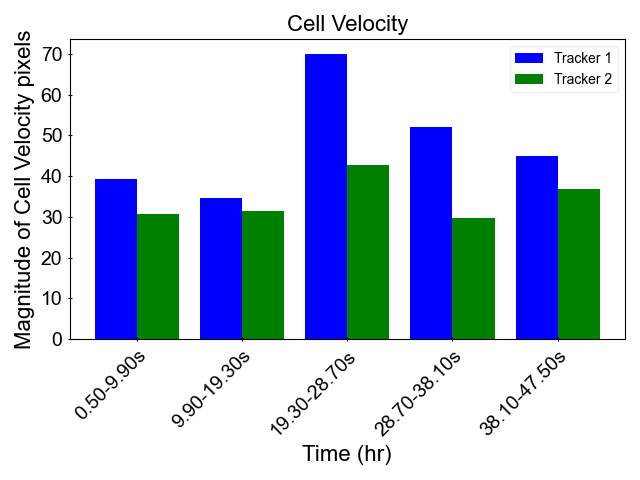
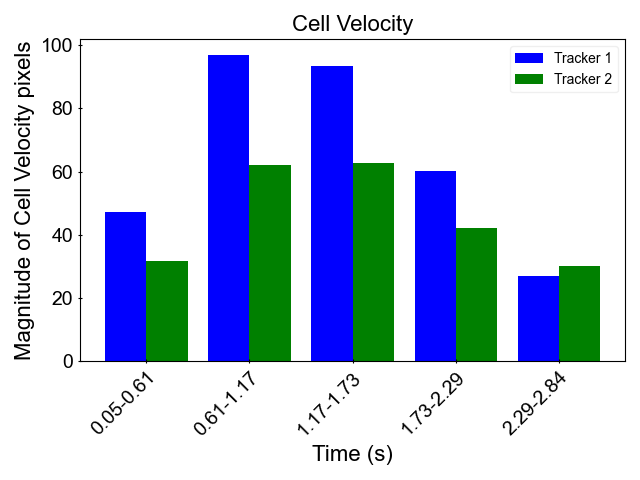
n ranges for bar graph ui option

Changed region(s): [[0.0, 0.0625, 0.9375, 0.9688], [0.4375, 0.0312, 0.6562, 0.0938]]

diff --git a/main.py b/main.py
@@ -148,23 +148,28 @@ class TrackingUI:
         self.conversion_units_entry = ttk.Entry(submission_frame)
         self.conversion_units_entry.insert(0, "pixels")
         self.conversion_units_entry.grid(row=3, column=1)
+        n_ranges_label = ttk.Label(submission_frame, text="Number of time ranges\nfor bar graphs: ")
+        n_ranges_label.grid(row=4, column=0, pady=(0, 16))
+        self.n_ranges_entry = ttk.Entry(submission_frame)
+        self.n_ranges_entry.insert(0, "5")
+        self.n_ranges_entry.grid(row=4, column=1, pady=(0, 16))
 
         marker_deltas_btn = ttk.Button(submission_frame, text="Marker deltas analysis", command=lambda: analysis.analyze_marker_deltas((float(self.conversion_factor_entry.get()), self.conversion_units_entry.get())), style='Regular.TButton')
-        marker_deltas_btn.grid(row=4, column=0, padx=4, pady=4)
+        marker_deltas_btn.grid(row=5, column=0, padx=4, pady=4)
         necking_pt_btn = ttk.Button(submission_frame, text="Necking point analysis", command=lambda: analysis.analyze_necking_point((float(self.conversion_factor_entry.get()), self.conversion_units_entry.get())), style='Regular.TButton')
-        necking_pt_btn.grid(row=5, column=0, padx=4, pady=4)
+        necking_pt_btn.grid(row=6, column=0, padx=4, pady=4)
         poissons_ratio_btn = ttk.Button(submission_frame, text="Poisson's ratio", command=lambda: analysis.poissons_ratio((float(self.conversion_factor_entry.get()), self.conversion_units_entry.get())), style='Regular.TButton')
-        poissons_ratio_btn.grid(row=6, column=0, padx=4, pady=4)
+        poissons_ratio_btn.grid(row=7, column=0, padx=4, pady=4)
 
-        cell_velocity_btn = ttk.Button(submission_frame, text="Marker velocity", command=lambda: analysis.marker_velocity((float(self.conversion_factor_entry.get()), self.conversion_units_entry.get())), style='Regular.TButton')
-        cell_velocity_btn.grid(row=4, column=1, padx=4, pady=4)
+        cell_velocity_btn = ttk.Button(submission_frame, text="Marker velocity", command=lambda: analysis.marker_velocity((float(self.conversion_factor_entry.get()), self.conversion_units_entry.get(), int(self.n_ranges_entry.get()))), style='Regular.TButton')
+        cell_velocity_btn.grid(row=5, column=1, padx=4, pady=4)
         cell_distance_btn = ttk.Button(submission_frame, text="Marker distance", command=lambda: analysis.marker_distance((float(self.conversion_factor_entry.get()), self.conversion_units_entry.get())), style='Regular.TButton')
-        cell_distance_btn.grid(row=5, column=1, padx=4, pady=4)
+        cell_distance_btn.grid(row=6, column=1, padx=4, pady=4)
         cell_spread_btn = ttk.Button(submission_frame, text="Marker spread", command=lambda: analysis.single_marker_spread((float(self.conversion_factor_entry.get()), self.conversion_units_entry.get())), style='Regular.TButton')
-        cell_spread_btn.grid(row=6, column=1, padx=4, pady=4)
+        cell_spread_btn.grid(row=7, column=1, padx=4, pady=4)
 
         exit_btn = ttk.Button(submission_frame, text='Exit', command=sys.exit, style='Regular.TButton')
-        exit_btn.grid(row=10, column=0, columnspan=2, padx=32, pady=(24,12))
+        exit_btn.grid(row=20, column=0, columnspan=2, padx=32, pady=(24,12))
         submission_frame.grid(row=20, column=0)
         
     def select_frames(self):

diff --git a/analysis.py b/analysis.py
@@ -145,7 +145,7 @@ def plot_avgs_bar_data(n_ranges, x, y, plot_args, n_trackers=1):
     plt.tick_params(axis='both', direction=plot_customs['tick_dir'])
     plt.title(plot_args['title'], fontsize=plot_customs['title_text_size'], fontfamily=font)
     ax.set_xticks(np.arange(n_ranges))
-    ax.set_xticklabels([f"{intervals[i]:.2f}-{intervals[i+1]:.2f}s" for i in range(n_ranges)])
+    ax.set_xticklabels([f"{intervals[i]:.2f}-{intervals[i+1]:.2f}" for i in range(n_ranges)])
     plt.setp(ax.get_xticklabels(), rotation=45, ha="right", rotation_mode="anchor")
     plt.tight_layout()
 
@@ -311,7 +311,7 @@ def poissons_ratio(user_unit_conversion):
 
 def marker_velocity(user_unit_conversion, df=None, will_save_figures=True):
     print("Finding Marker Velocity...")
-    conversion_factor, conversion_units = user_unit_conversion
+    conversion_factor, conversion_units, n_ranges = user_unit_conversion
     
     if not isinstance(df, pd.DataFrame):
         df = pd.read_csv("output/Tracking_Output.csv") # open csv created/modified from marker tracking process
@@ -373,7 +373,6 @@ def marker_velocity(user_unit_conversion, df=None, will_save_figures=True):
         vel_fig.savefig("figures/marker_velocity.png")
 
         # plot bar graph of average cell velocities in time range
-        n_ranges = 5
         avg_vel_fig, avg_vel_ax = plot_avgs_bar_data(n_ranges, times[0], tracker_velocities, plot_args, n_trackers)
         avg_vel_fig.savefig("figures/average_marker_velocity.png")
 

diff --git a/CHANGELOG.md b/CHANGELOG.md
@@ -40,6 +40,7 @@ Cell Mechanics
 - refactored all functions that call these functions appropriately
 - added saved dfs for intermediate calculations of cell velocity, cell rms displacement and poissons ratio
 - adapted cell displacement to work for multiple trackers
+- for cell velocity added ui input to specify number of ranges for bar graph
 - account for timelapses (framerate does not directly correlate to time)
     - add to ui checkbox for if is timelapse
     - if yes, prompt for input of time units and frame interval
